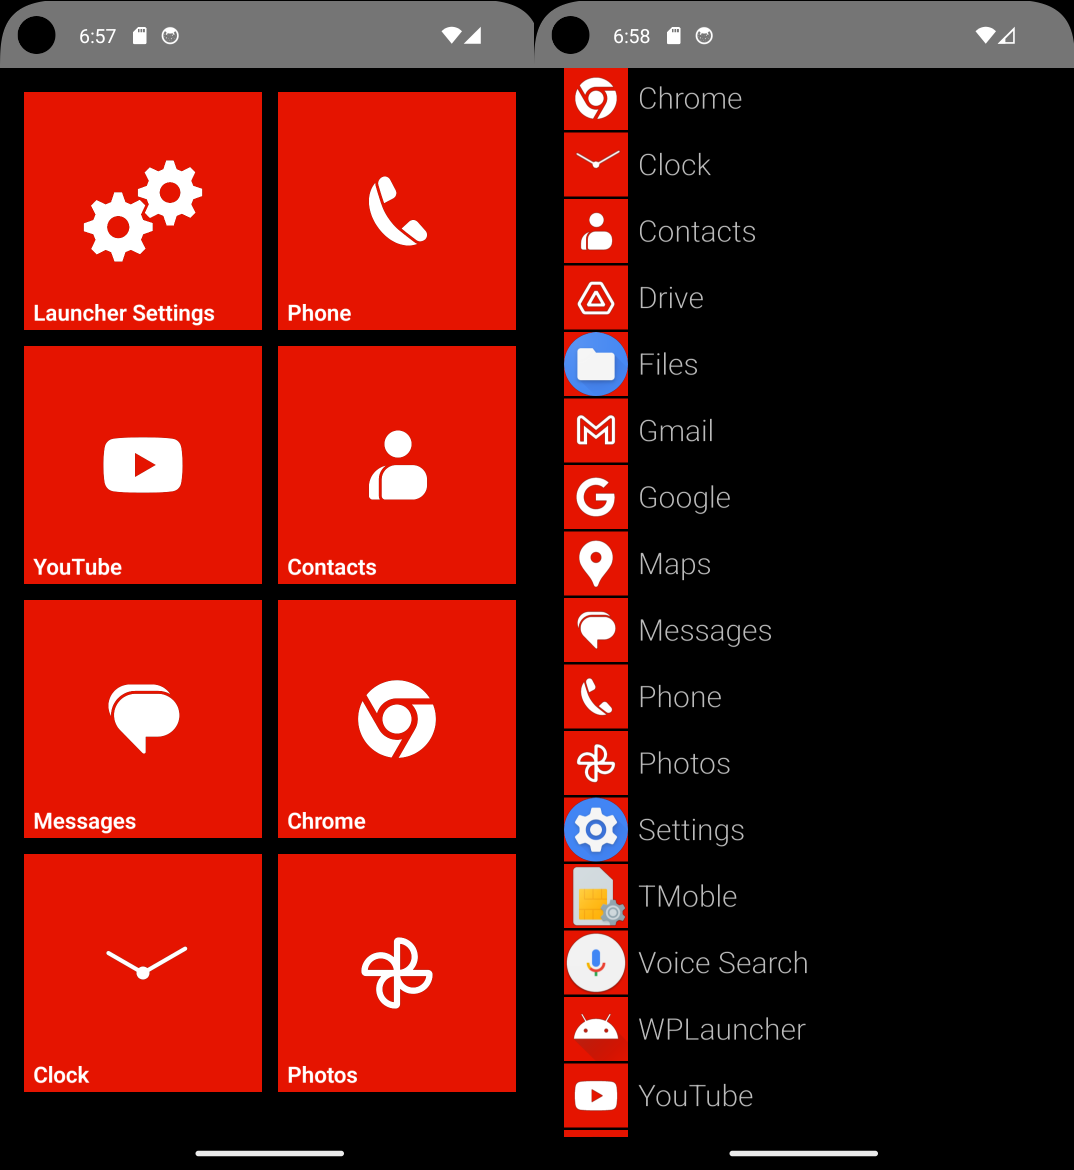
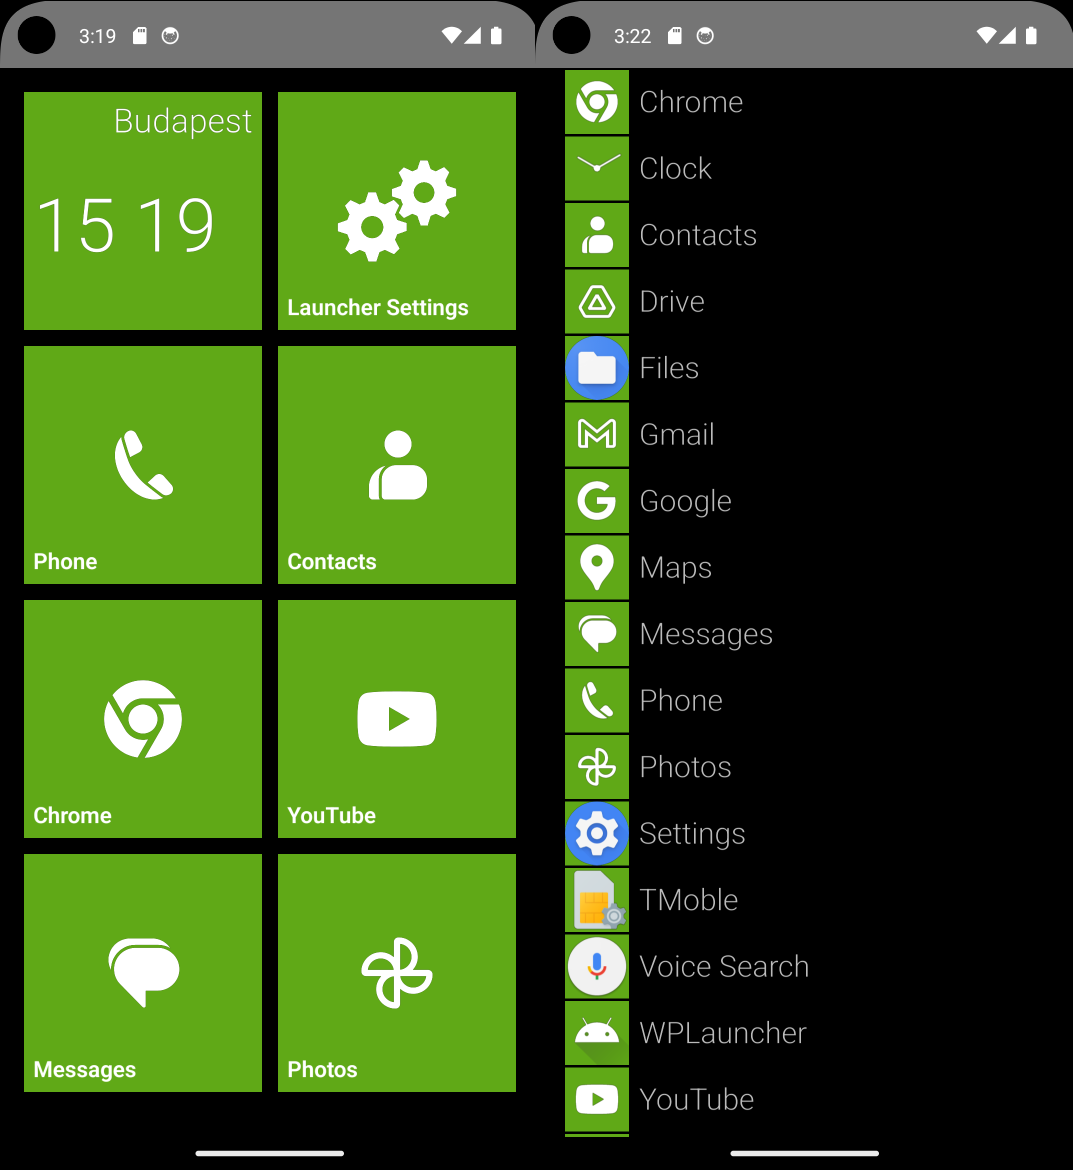
Internal app ordering

diff --git a/app/src/main/java/com/robotjatek/wplauncher/Services/InternalAppsService.java b/app/src/main/java/com/robotjatek/wplauncher/Services/InternalAppsService.java
@@ -12,6 +12,7 @@ import com.robotjatek.wplauncher.InternalApps.Clock.Clock;
 import com.robotjatek.wplauncher.InternalApps.Settings.Settings;
 import com.robotjatek.wplauncher.R;
 
+import java.util.Comparator;
 import java.util.HashMap;
 import java.util.List;
 import java.util.Map;
@@ -36,12 +37,15 @@ public class InternalAppsService {
         var clock = new App("Clock", CLOCK_NAME, getAppIcon(CLOCK_NAME),
                 () -> navigator.push(_clockScreen));
 
-        _internalApps.put(SETTINGS_NAME, setting);
+
         _internalApps.put(CLOCK_NAME, clock);
+        _internalApps.put(SETTINGS_NAME, setting);
     }
 
     public List<App> getInternalApps() {
-        return _internalApps.values().stream().toList();
+        return _internalApps.values().stream()
+                .sorted(Comparator.comparing(App::name, String.CASE_INSENSITIVE_ORDER))
+                .toList();
     }
 
     public App getInternalApp(String packageName) {
